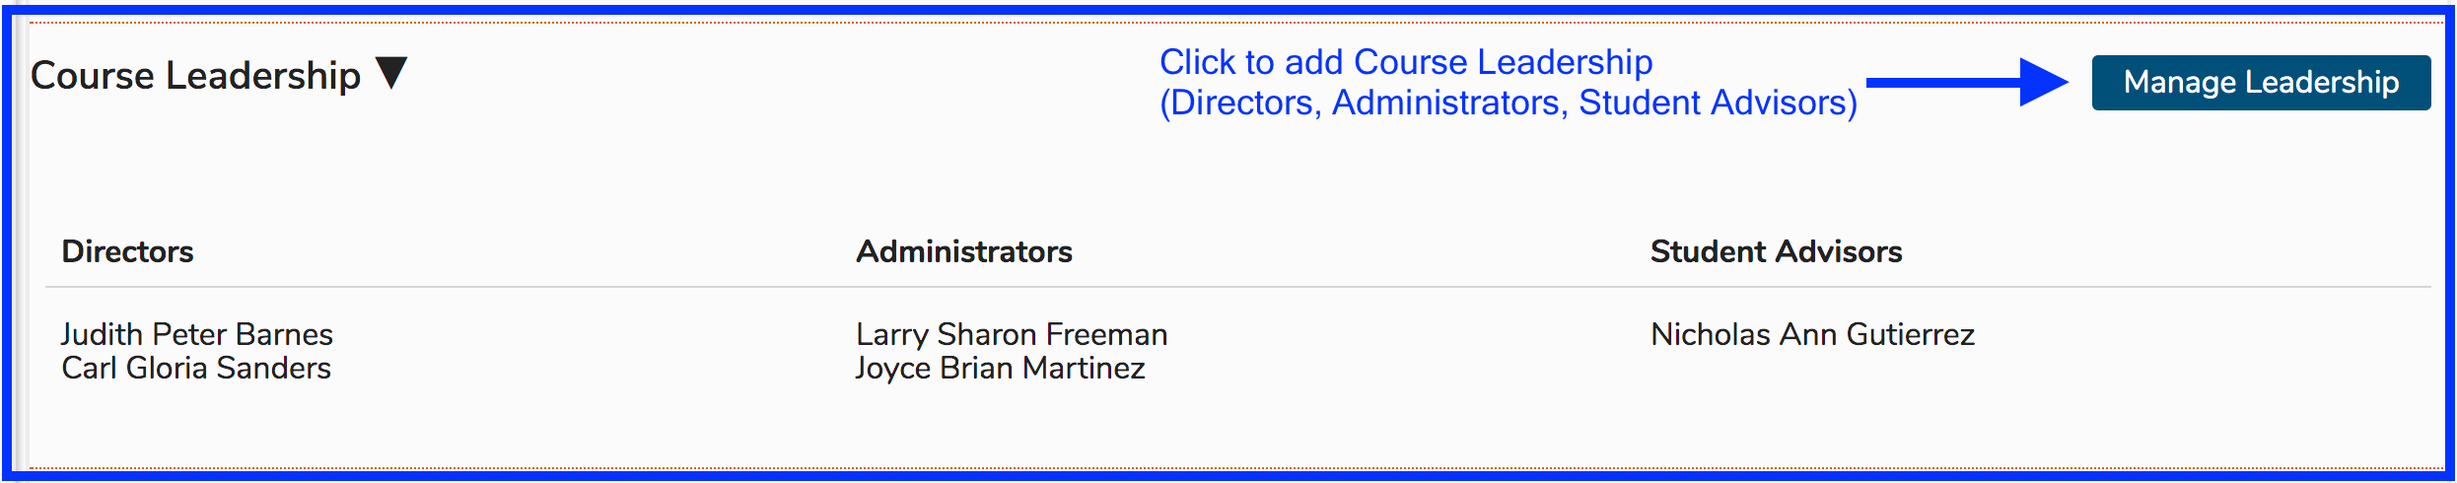
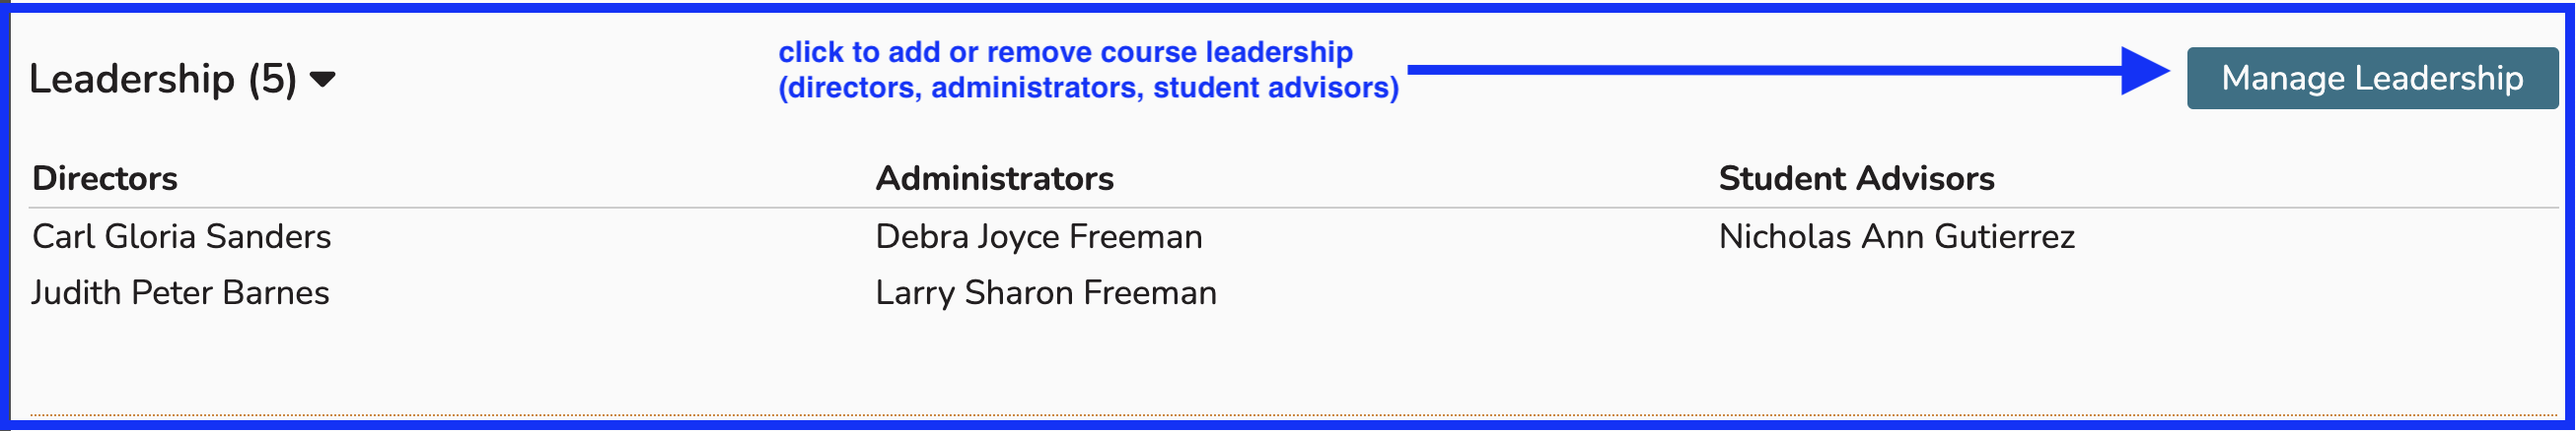
replaced image - header updates too

diff --git a/courses-and-sessions/courses/course-leadership.md b/courses-and-sessions/courses/course-leadership.md
@@ -1,6 +1,10 @@
-# Manage Leadership
+# Leadership
 
 [Leadership](https://iliosproject.gitbook.io/ilios-user-guide/glossary#leadership) is part of the permissions model. At the course level, Directors, Administrators, and Student Advisors are added here. Course **Directors** and **Administrators**  have similar rights - to maintain any and all aspects of this Course. It is a matter of specifying whether the user is an administrative user using Ilios to maintain the Course or if the user is actually a Director. **Student Advisors** are explained below.
+
+# Manage Leadership
+
+The information and steps below detail the specifics of Leadership as it pertains to Ilios and how to maintain the users and roles available.
 
 ## Student Advisors
 
@@ -21,7 +25,7 @@ Clicking on Course Leadership opens up the details for this Course and allows mo
 ![click to manage](../../images/course_leadership/click_to_manage.png)
 
 
-To remove Course Directors, Administrators, or Student Advisors, simply click the red "X" to remove the users from the list and then save using the green Save button in the upper right corner (or Cancel).
+After clicking "Manage Leadership" as shown above, users can be added or removed from these roles. To remove Course Directors, Administrators, or Student Advisors, simply click the red "X" to remove the users from the list and then save using the green Save button in the upper right corner (or Cancel).
 
 ![click to remove](../../images/course_leadership/click_to_remove.png)
 
